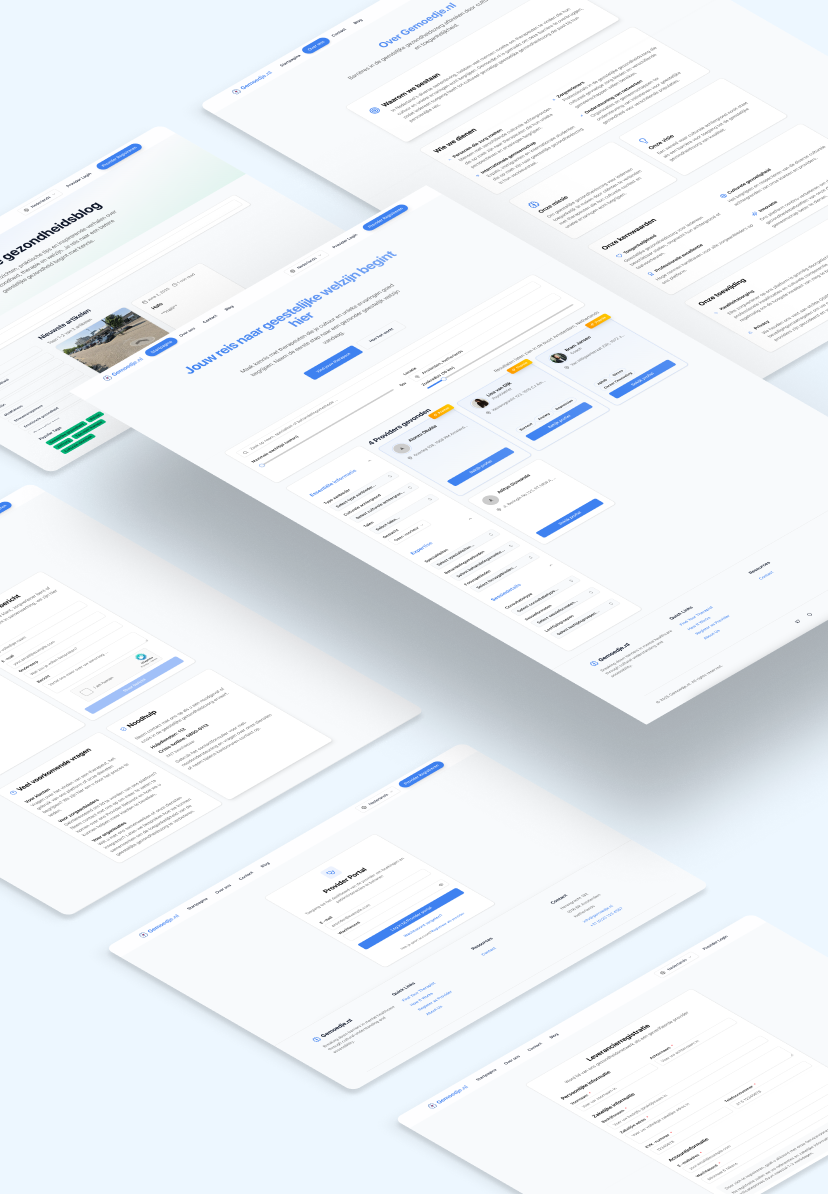
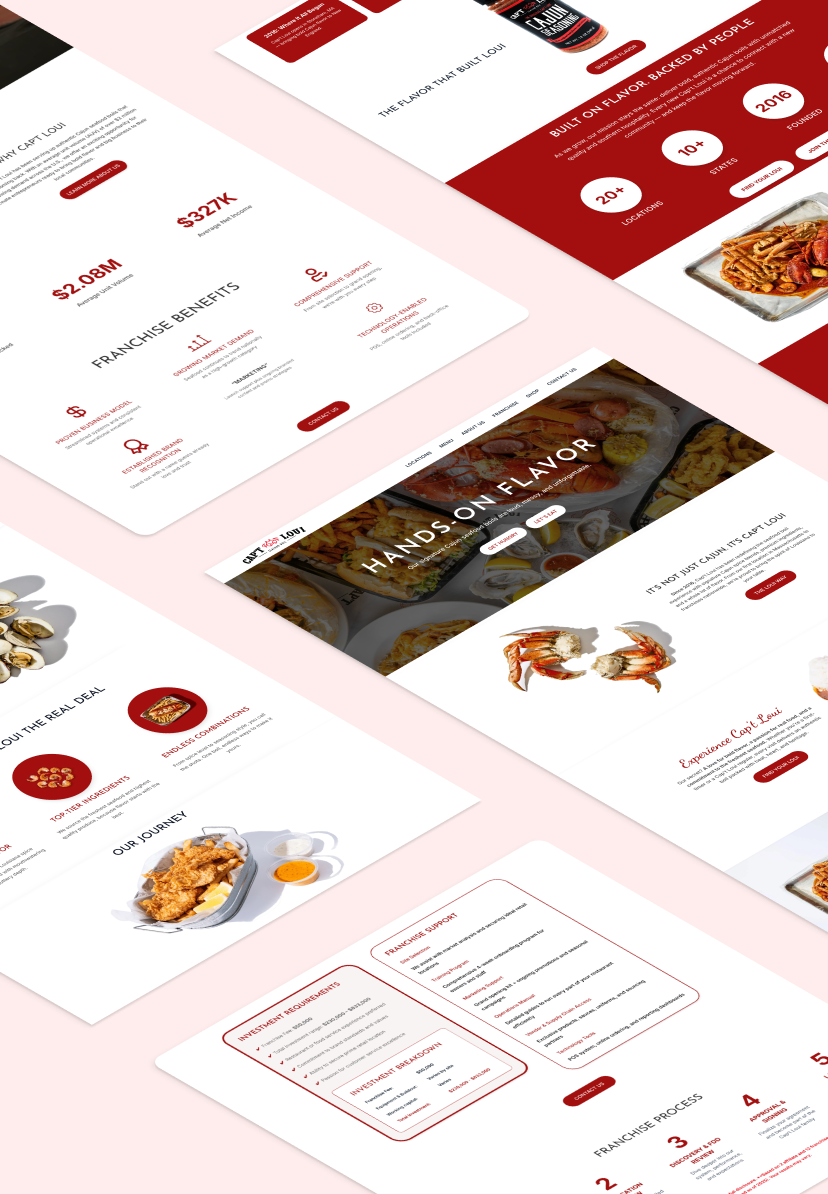
feat: update current project

diff --git a/src/app/components/Hero.tsx b/src/app/components/Hero.tsx
@@ -2,6 +2,7 @@
 
 import Image from "next/image";
 import { motion } from "framer-motion";
+import Link from "next/link";
 
 export default function Hero() {
   return (
@@ -51,41 +52,45 @@ export default function Hero() {
           transition={{ duration: 0.8, delay: 0.2, ease: "easeOut" }}
           className="flex-[1] flex justify-center"
         >
-          <div className="bg-white rounded-2xl w-full max-w-sm h-full flex flex-col justify-start">
-            <Image
-              src="/current-project.png"
-              alt="Gemoedje"
-              width={400}
-              height={250}
-              className="rounded-2xl mb-4 w-full object-cover"
-            />
-            <div className="flex justify-between items-center">
-              <div>
-                <p className="text-xs sm:text-sm uppercase text-gray-400">
-                  Our latest work
-                </p>
-                <h2 className="text-2xl sm:text-3xl font-bold text-black">
-                  Gemoedje
-                </h2>
+          <Link href="https://www.captloui.com/">
+            <div className="bg-white rounded-2xl w-full max-w-sm h-full flex flex-col justify-start">
+              <Image
+                src="/current-project.png"
+                alt="Capt Loui"
+                width={400}
+                height={250}
+                className="rounded-2xl mb-4 w-full object-cover"
+              />
+
+              <div className="flex justify-between items-center">
+                <div>
+                  <p className="text-xs sm:text-sm uppercase text-gray-400">
+                    Our latest work
+                  </p>
+                  <h2 className="text-2xl sm:text-3xl font-bold text-black">
+                    Capt Loui
+                  </h2>
+                </div>
+
+                <button className="border w-10 h-10 rounded-full bg-white text-black flex items-center justify-center hover:bg-black hover:text-white transition">
+                  <svg
+                    xmlns="http://www.w3.org/2000/svg"
+                    className="w-5 h-5"
+                    fill="none"
+                    viewBox="0 0 24 24"
+                    stroke="currentColor"
+                    strokeWidth={2}
+                  >
+                    <path
+                      strokeLinecap="round"
+                      strokeLinejoin="round"
+                      d="M9 5l7 7-7 7"
+                    />
+                  </svg>
+                </button>
               </div>
-              <button className="border w-10 h-10 rounded-full bg-white text-black flex items-center justify-center hover:bg-black hover:text-white transition">
-                <svg
-                  xmlns="http://www.w3.org/2000/svg"
-                  className="w-5 h-5"
-                  fill="none"
-                  viewBox="0 0 24 24"
-                  stroke="currentColor"
-                  strokeWidth={2}
-                >
-                  <path
-                    strokeLinecap="round"
-                    strokeLinejoin="round"
-                    d="M9 5l7 7-7 7"
-                  />
-                </svg>
-              </button>
             </div>
-          </div>
+          </Link>
         </motion.div>
       </div>
     </section>
